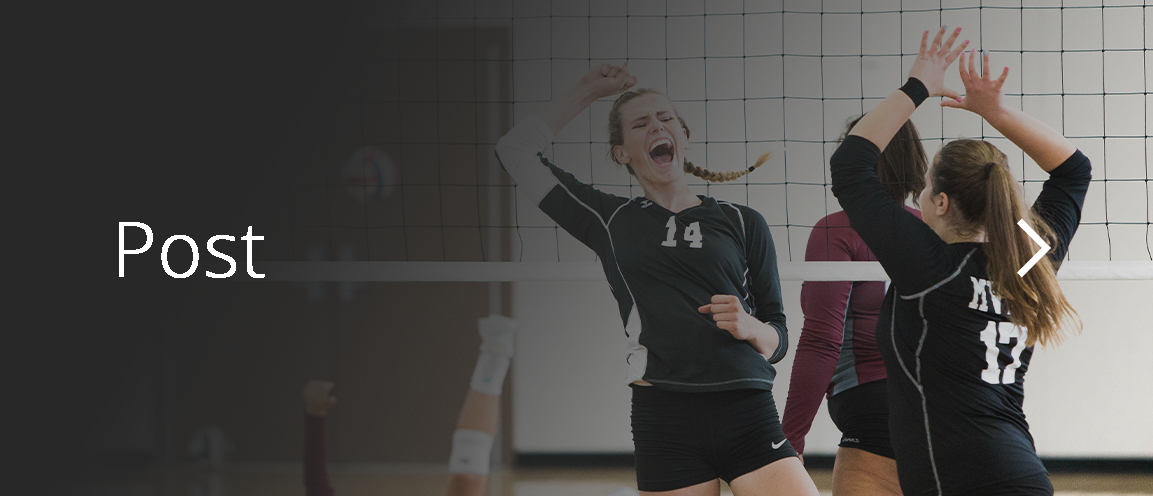
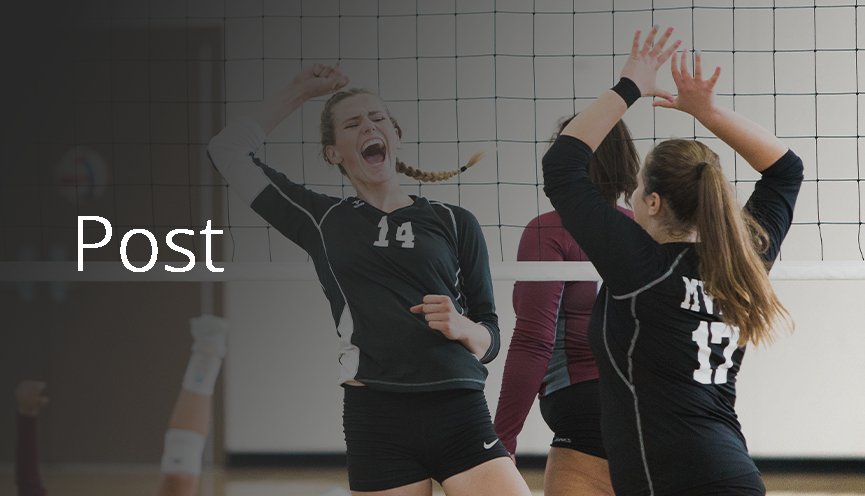
Update social function
Almost finish

diff --git a/app/screen/RankingScreen.jsx b/app/screen/RankingScreen.jsx
@@ -1,17 +1,157 @@
 import * as React from "react";
 import {
+    Center,
     NativeBaseProvider,
-    Text
+    Text,
+    Box,
+    Image,
+    ScrollView,
+    Divider,
+    HStack,
 } from "native-base";
+import { useState, useEffect } from "react";
+
+const MedalIcon = (seq) => {
+    switch (seq) {
+        case 1:
+            return (
+                <Image
+                    alt={toString(seq)}
+                    source={require("../assets/images/gold.png")}
+                />
+            )
+        case 2:
+            return (
+                <Image
+                    alt={toString(seq)}
+                    source={require("../assets/images/silver.png")}
+                />
+            )
+        case 3:
+            return (
+                <Image
+                    alt={toString(seq)}
+                    source={require("../assets/images/copper.png")}
+                />
+            )
+        default:
+            return(<>
+                <Text
+                    italic
+                    bold
+                    mx='3'
+                    fontSize={'4xl'}
+                >{seq}</Text>
+            </>);
+            break;
+    }
+}
+
+const HeaderCard = () => {
+    return (
+        <Box bgColor="#020202" w="90%" h="100" mx="4" rounded="lg">
+            <Image
+                h="100%"
+                rounded="lg"
+                source={require("../assets/images/Ranking_Banner_2.png")}
+                alt="banner-fitness"
+            ></Image>
+        </Box>
+    );
+};
+
+const RankingList = () => {
+
+    const [isLoading, setLoading] = useState(true);
+    const [rankingData, setRanking] = useState([]);
+    const [date, setDate] = useState('1970-1-1');
+
+    useEffect(() => {
+        const bootstrapAsync = async () => {
+            try{
+                let response = await fetch("https://groupproject26.top/api/social/get-ranking-today");
+                let responseJson = await response.json();
+                console.log(responseJson);
+                return responseJson;
+            } catch (error) {
+                console.error(error);
+            }
+        };
+        bootstrapAsync().then((responseData) => {
+            setRanking(responseData.ranking);
+            setDate(responseData.date);
+        }).then(setLoading(false));
+    }, []);
+
+    return (
+        <>
+            {isLoading ? null : (
+                <>
+                    <Text
+                        fontSize='lg'
+                        bold
+                    >{date}</Text>
+                    {
+                        rankingData.map(function(item){
+                            return(
+                                //For icon ones
+                                <Box
+                                    rounded={'lg'}
+                                    h="100"
+                                    w="90%"
+                                    my='2'
+                                    bgColor={"#ffffff"}
+                                >
+                                    <HStack>
+                                        <Center
+                                            mx='4'
+                                            mt='4'
+                                        >
+                                            {MedalIcon(item.seq)}
+                                        </Center>
+                                        <Center>
+                                            <Text
+                                                fontSize='xl'
+                                            >{item.user_name}</Text>
+                                        </Center>
+                                        <Center
+                                            position={'absolute'}
+                                            right='5'
+                                            top='3'
+                                        >
+                                            <Text
+                                                fontSize='3xl'
+                                                italic
+                                                bold
+                                            >{item.steps}</Text>
+                                            <Text>steps</Text>
+                                        </Center>
+                                    </HStack>
+                                </Box>
+                            );
+                        })
+                    }
+                </>
+
+            )}
+        </>
+    );
+}
 
 export function RankingScreen({navigation}) {
     return (
         <>
             <NativeBaseProvider>
-                <Text>Ranking Screen</Text>
+                <ScrollView>
+                    <Center mt='4'>
+                        <HeaderCard/>
+                        <Divider mt='3' w="90%"/>
+                        <RankingList/>
+                    </Center>
+                </ScrollView>
             </NativeBaseProvider>
         </>
     )
 }
 
-export default RankingScreen;
+export default RankingScreen; 

diff --git a/app/screen/SocialScreen.jsx b/app/screen/SocialScreen.jsx
@@ -23,7 +23,7 @@ import { FontAwesome5, Feather } from "@expo/vector-icons";
 
 const HeaderCardRanking = ({navigation}) => {
     return (
-        <Box bgColor="#020202" w="90%" h="100" mx="4" rounded="lg">
+        <Box bgColor="#020202" w="50%" h="100" rounded="lg">
             <Pressable
                 onPress={() => {
                     navigation.navigate('Daily Ranking');
@@ -82,13 +82,14 @@ const PostsList = ({route, navigation}) => {
                 let response = await fetch("https://groupproject26.top/api/social/get-all-posts");
                 let responseJson = await response.json();
                 console.log(responseJson.data);
-                setPostsData(responseJson.data);
-                setLoading(false);
+                return responseJson.data;
             } catch (error) {
                 console.error(error);
             }
         };
-        bootstrapAsync();
+        bootstrapAsync().then((responseData) => {
+            setPostsData(responseData);
+        }).then(setLoading(false));
     }, []);
 
     if (route.params != null && route.params.refresh == true) {
@@ -99,21 +100,28 @@ const PostsList = ({route, navigation}) => {
     }
 
     return (<>
+        <HStack
+            w="90%"
+            space={1}
+        >   
+            <HeaderCardRanking navigation={navigation}/>
+            <Box bgColor="#020202" w="50%" h="100" rounded="lg">
+                <Pressable
+                    onPress={() => {
+                        navigation.navigate('Write Post');
+                    }}
+                >
+                    <Image
+                        h="100%"
+                        rounded="lg"
+                        source={require("../assets/images/Post_Banner.png")}
+                        alt="banner-fitness"
+                    ></Image>
+                </Pressable>
+            </Box>
+        </HStack>
 
-        <Box bgColor="#020202" w="90%" h="100" mt='2' mx="4" rounded="lg">
-            <Pressable
-                onPress={() => {
-                    navigation.navigate('Write Post');
-                }}
-            >
-                <Image
-                    h="100%"
-                    rounded="lg"
-                    source={require("../assets/images/Post_Banner.png")}
-                    alt="banner-fitness"
-                ></Image>
-            </Pressable>
-        </Box>
+
 
         <Divider w="90%" mt="4" thickness="2" />
 
@@ -135,9 +143,7 @@ const PostsList = ({route, navigation}) => {
                                         source={{
                                             uri: item.user_avatar_url,
                                         }}
-                                    >
-                                    RS
-                                    </Avatar>
+                                    />
                                     <VStack>
                                         <HStack
                                             w="280"
@@ -176,7 +182,7 @@ export function SocialMainPage({ route, navigation }) {
             <NativeBaseProvider>
                 <ScrollView>
                     <Center mt="4">
-                            <HeaderCardRanking navigation={navigation}/>
+                            
                             <PostsList route={route} navigation={navigation}/>
                     </Center>
                 </ScrollView>
